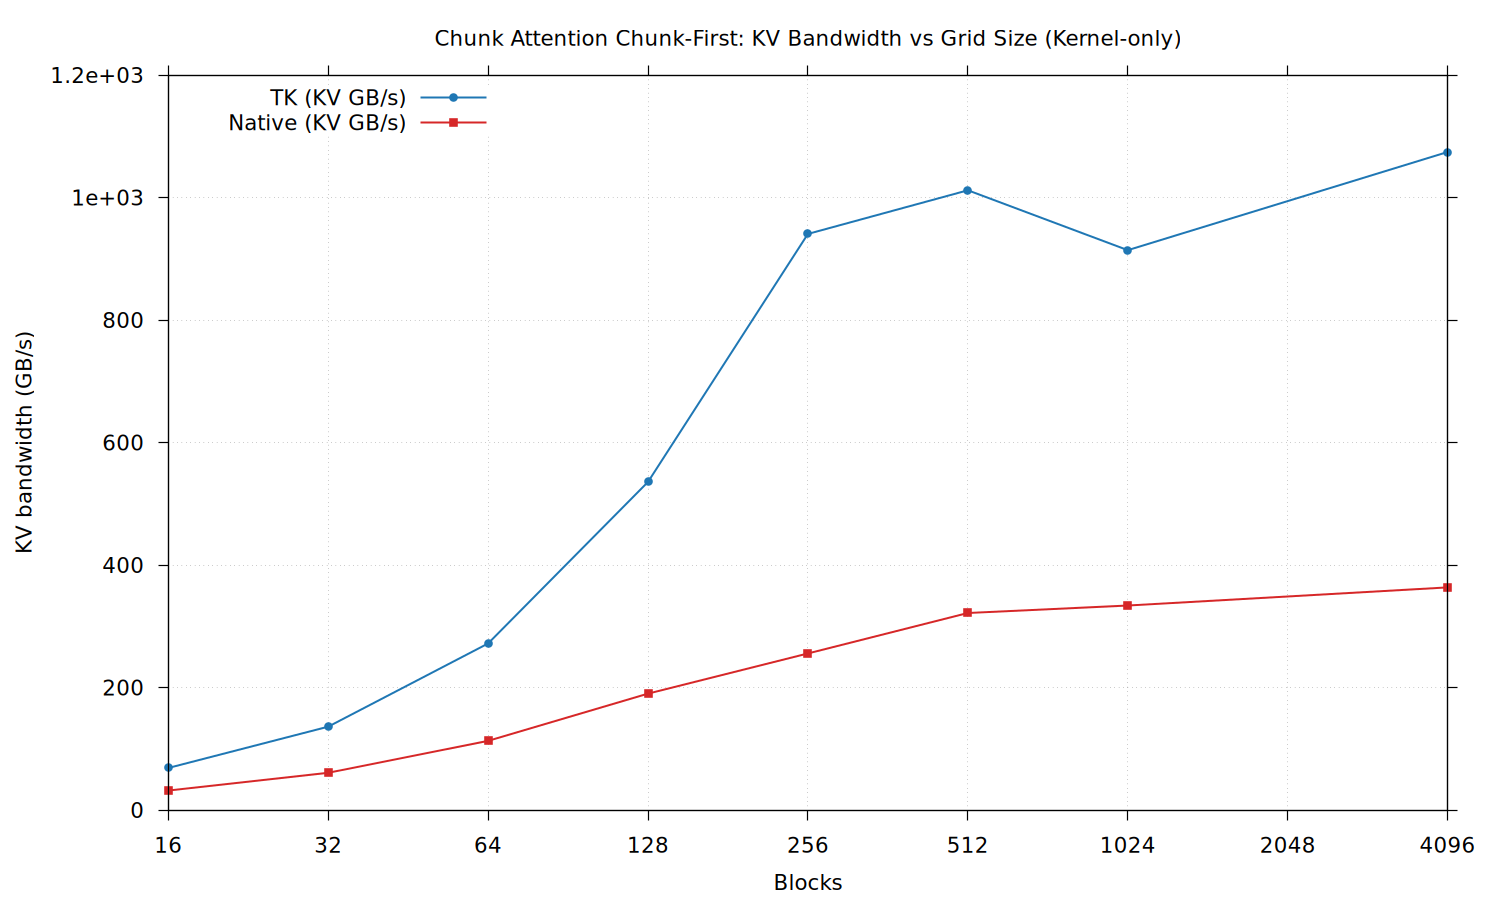
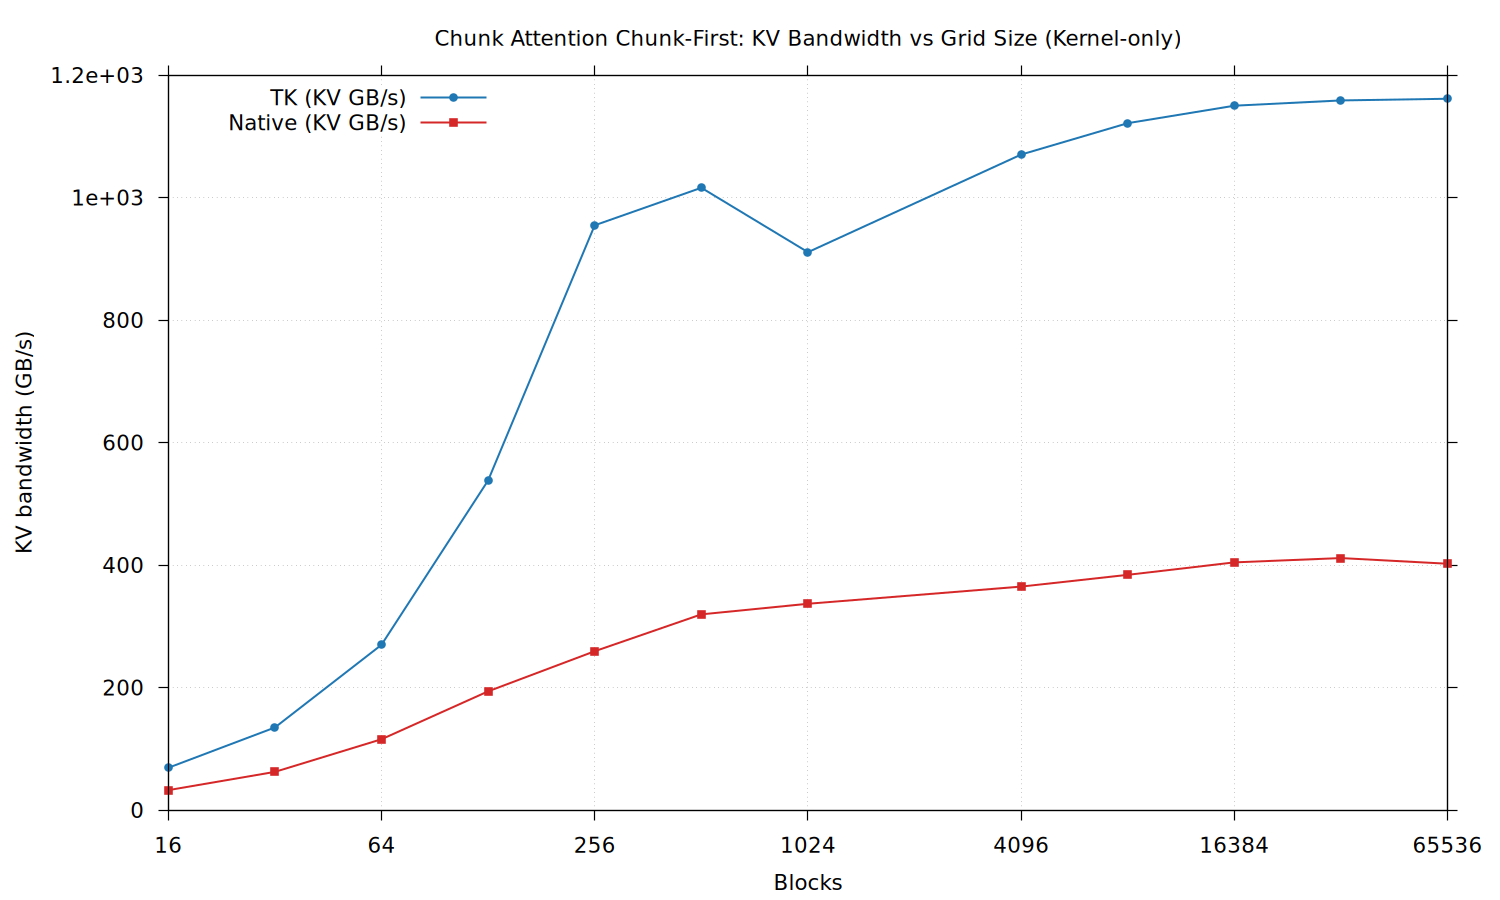
new TK results

diff --git a/bench/scripts/benchmark_chunk_attn_sweep.py b/bench/scripts/benchmark_chunk_attn_sweep.py
@@ -141,6 +141,12 @@ def main() -> None:
         Cfg(64, 64, 16),
         Cfg(64, 16, 64),
         Cfg(64, 64, 64),
+        Cfg(64, 128, 64),
+        Cfg(64, 64, 128),
+        Cfg(64, 128, 128),
+        Cfg(64, 256, 128),
+        Cfg(64, 128, 256),
+        Cfg(64, 256, 256),
     ]
 
     os.makedirs(os.path.dirname(args.csv) or ".", exist_ok=True)
